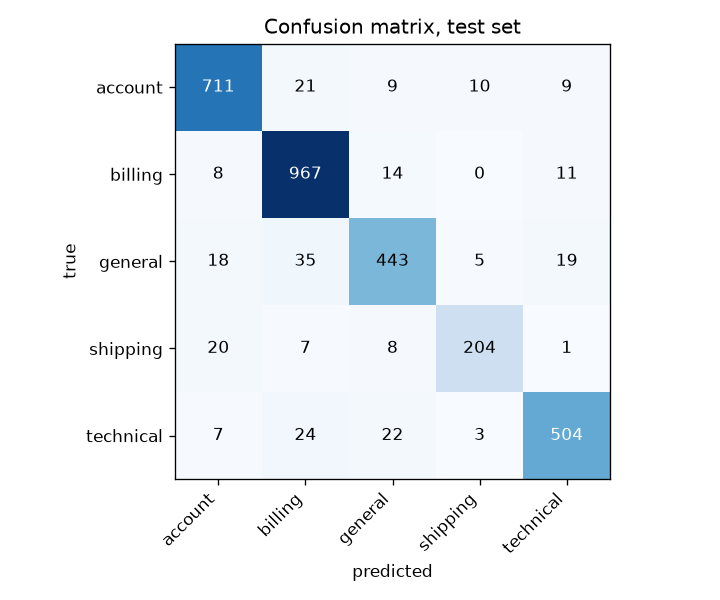
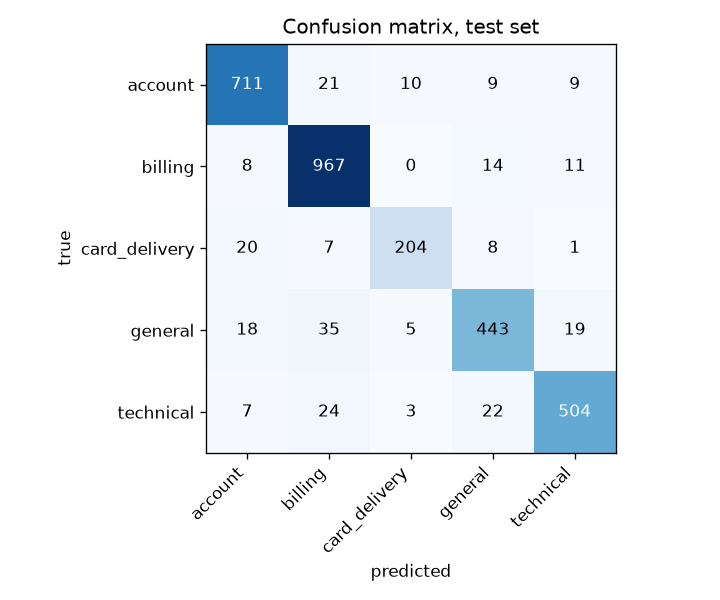
Retrain merged main on the official split with card_delivery
Regenerates the model, metrics, reports and dvc.lock after the merges.
Production macro F1 is 0.9086, unchanged from eval-hardening because the
official split does not depend on label names. The baselines and
granularity stages wait on the stats and granularity stubs. README test
count updated to 125 passing plus 14 xfail specs.

diff --git a/README.md b/README.md
@@ -246,7 +246,7 @@ distribution and will be routed on surface vocabulary rather than meaning.
 - **Model registry with a promotion gate** ([`models/registry.py`](src/automated_support_ticket_classification/models/registry.py), [`models/promote.py`](src/automated_support_ticket_classification/models/promote.py)): a new model only takes the MLflow `production` alias if it beats the current one on macro F1, trained on the same corpus.
 - **Drift monitoring** ([`monitoring/drift.py`](src/automated_support_ticket_classification/monitoring/drift.py)): Evidently checks label and text drift, with results in [metrics/drift.json](metrics/drift.json). It stays quiet on train vs test and fires on real vs synthetic data.
 - **API plus Prometheus in one command**: `docker compose up` runs the service and a Prometheus instance scraping `/metrics`.
-- **Tests and CI**: `pytest` runs 104 tests across the data generators and corpus mapping, the corpus download retry, the model pipeline, the API (including input length limits and the missing-model 503), prediction-log redaction (including Indian identifiers: PAN, UPI, IFSC, Aadhaar) and rotation, drift and the registry promotion gate. CI runs `ruff format --check .`, `ruff check .`, the tests, a Docker build and a container smoke test.
+- **Tests and CI**: `pytest` runs 125 tests, plus 14 specs marked xfail for functions still to be implemented (bootstrap CI, McNemar, the 77-way comparison, ECE), across the data generators and corpus mapping, the corpus download retry, the model pipeline, the API (including input length limits and the missing-model 503), prediction-log redaction (including Indian identifiers: PAN, UPI, IFSC, Aadhaar) and rotation, drift and the registry promotion gate. CI runs `ruff format --check .`, `ruff check .`, the tests, a Docker build and a container smoke test.
 
 See [docs/experiments.md](docs/experiments.md) for the experiment log and [CONTRIBUTING.md](CONTRIBUTING.md) for the development workflow.
 
